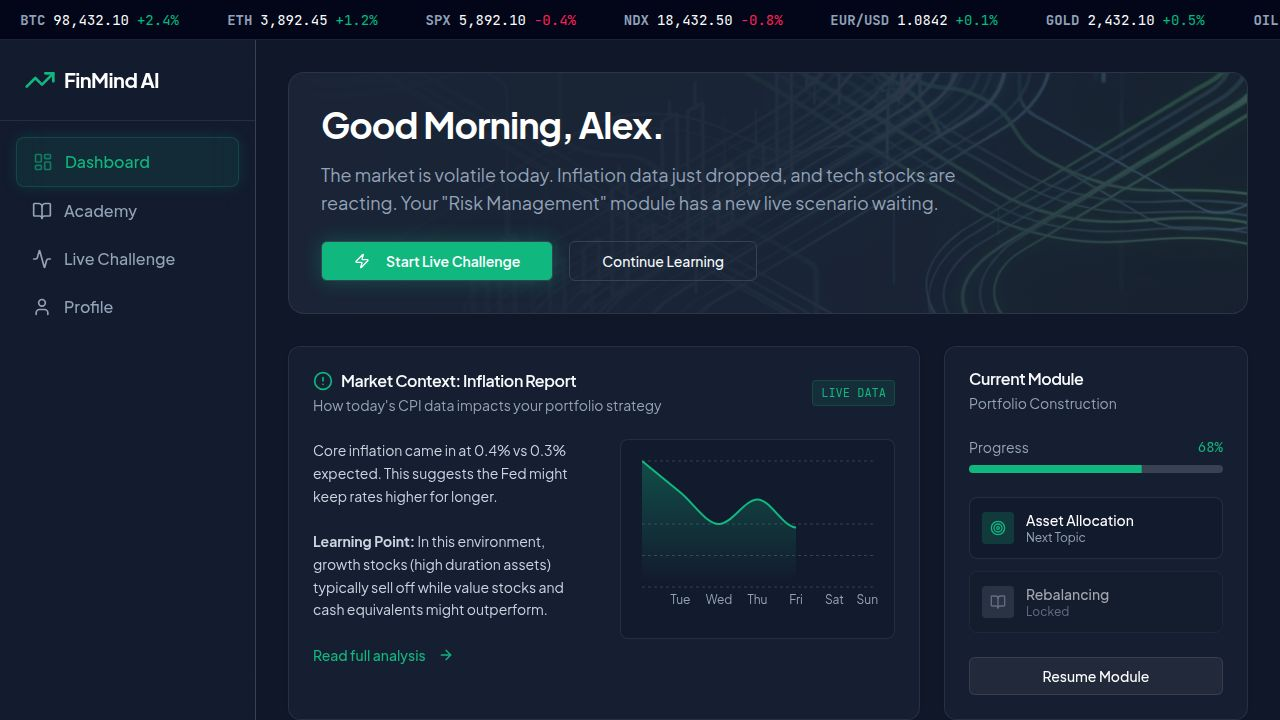
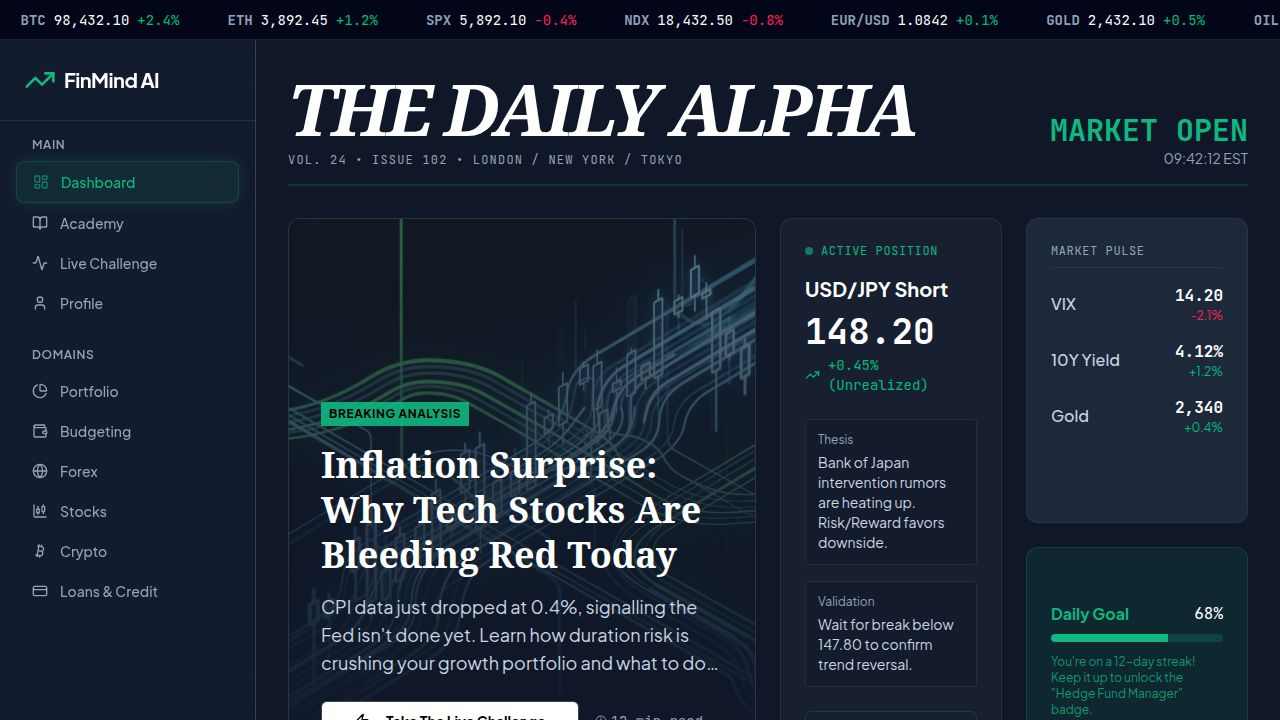
Revamp dashboard to resemble a newspaper with financial news
Update dashboard layout to a newspaper-style design with a prominent header, incorporating financial data and news, and importing new icons.

Replit-Commit-Author: Agent
Replit-Commit-Session-Id: ff85ec22-022c-4fd3-90fa-a4936b2031bb
Replit-Commit-Checkpoint-Type: full_checkpoint
Replit-Commit-Event-Id: 39064070-c70b-4fff-9420-42669af19fa1
Replit-Commit-Screenshot-Url: https://storage.googleapis.com/screenshot-production-us-central1/b6f839a9-772f-41d7-9e57-fa42cc94f4c2/ff85ec22-022c-4fd3-90fa-a4936b2031bb/fHsotQN
Replit-Helium-Checkpoint-Created: true

diff --git a/client/src/pages/dashboard.tsx b/client/src/pages/dashboard.tsx
@@ -1,185 +1,193 @@
 import Layout from "@/components/layout";
-import { Card, CardContent, CardHeader, CardTitle, CardDescription } from "@/components/ui/card";
+import { Card, CardContent, CardHeader, CardTitle, CardDescription, CardFooter } from "@/components/ui/card";
 import { Button } from "@/components/ui/button";
 import { Progress } from "@/components/ui/progress";
-import { ArrowRight, Zap, Target, BookOpen, AlertCircle, TrendingUp } from "lucide-react";
+import { ArrowRight, Zap, Target, BookOpen, AlertCircle, TrendingUp, TrendingDown, Clock, Newspaper, ChevronRight } from "lucide-react";
 import { AreaChart, Area, XAxis, YAxis, CartesianGrid, Tooltip, ResponsiveContainer } from 'recharts';
 import { Link } from "wouter";
 import generatedImage from '@assets/generated_images/abstract_digital_finance_visualization_with_glowing_data_streams.png';
 
 const MOCK_CHART_DATA = [
-  { name: 'Mon', value: 4000 },
-  { name: 'Tue', value: 3000 },
-  { name: 'Wed', value: 2000 },
-  { name: 'Thu', value: 2780 },
-  { name: 'Fri', value: 1890 },
-  { name: 'Sat', value: 2390 },
-  { name: 'Sun', value: 3490 },
+  { name: '09:00', value: 4000 },
+  { name: '10:00', value: 3000 },
+  { name: '11:00', value: 2000 },
+  { name: '12:00', value: 2780 },
+  { name: '13:00', value: 1890 },
+  { name: '14:00', value: 2390 },
+  { name: '15:00', value: 3490 },
 ];
 
 export default function Dashboard() {
   return (
     <Layout>
-      <div className="space-y-8 animate-in fade-in slide-in-from-bottom-4 duration-500">
+      <div className="space-y-6 animate-in fade-in slide-in-from-bottom-4 duration-500">
         
-        {/* Welcome Hero */}
-        <div className="relative overflow-hidden rounded-2xl border border-border/50 bg-card p-8">
-          <div className="absolute inset-0 z-0 opacity-20">
-            <img 
-              src={generatedImage} 
-              alt="Background" 
-              className="w-full h-full object-cover"
-            />
-            <div className="absolute inset-0 bg-gradient-to-r from-background via-background/80 to-transparent" />
-          </div>
-
-          <div className="relative z-10 max-w-2xl">
-            <h1 className="text-4xl font-bold tracking-tight text-white mb-4">
-              Good Morning, Alex.
-            </h1>
-            <p className="text-lg text-muted-foreground mb-6">
-              The market is volatile today. Inflation data just dropped, and tech stocks are reacting. 
-              Your "Risk Management" module has a new live scenario waiting.
+        {/* Newspaper Header / Date Line */}
+        <div className="flex flex-col md:flex-row justify-between items-end border-b-2 border-primary/20 pb-4 mb-8">
+          <div>
+            <h1 className="text-5xl md:text-7xl font-bold tracking-tighter text-white font-serif italic">THE DAILY ALPHA</h1>
+            <p className="text-muted-foreground mt-2 font-mono uppercase tracking-widest text-xs">
+              Vol. 24 • Issue 102 • London / New York / Tokyo
             </p>
-            <div className="flex gap-4">
-              <Link href="/challenge">
-                <Button size="lg" className="bg-primary hover:bg-primary/90 text-white font-semibold shadow-[0_0_20px_rgba(16,185,129,0.3)]">
-                  <Zap className="mr-2 h-4 w-4" /> Start Live Challenge
-                </Button>
-              </Link>
-              <Link href="/learn">
-                <Button size="lg" variant="outline" className="border-border hover:bg-white/5">
-                  Continue Learning
-                </Button>
-              </Link>
+          </div>
+          <div className="text-right mt-4 md:mt-0">
+            <div className="text-3xl font-bold text-primary font-mono">MARKET OPEN</div>
+            <div className="text-sm text-muted-foreground">09:42:12 EST</div>
+          </div>
+        </div>
+
+        {/* Bento Grid / Newspaper Layout */}
+        <div className="grid grid-cols-1 md:grid-cols-4 gap-6 auto-rows-min">
+          
+          {/* Main Headline (Hero) - Spans 2 cols, 2 rows */}
+          <div className="md:col-span-2 md:row-span-2 group relative overflow-hidden rounded-xl border border-border/50 bg-card hover:border-primary/50 transition-all cursor-pointer">
+            <div className="absolute inset-0 z-0">
+              <img 
+                src={generatedImage} 
+                alt="Background" 
+                className="w-full h-full object-cover opacity-40 group-hover:scale-105 transition-transform duration-700"
+              />
+              <div className="absolute inset-0 bg-gradient-to-t from-background via-background/60 to-transparent" />
+            </div>
+            <div className="relative z-10 p-8 h-full flex flex-col justify-end">
+              <div className="bg-primary/90 text-black text-xs font-bold px-2 py-1 inline-block w-fit mb-4 uppercase tracking-wider">
+                Breaking Analysis
+              </div>
+              <h2 className="text-3xl md:text-4xl font-bold text-white mb-4 leading-tight font-serif">
+                Inflation Surprise: Why Tech Stocks Are Bleeding Red Today
+              </h2>
+              <p className="text-lg text-slate-300 mb-6 line-clamp-3">
+                CPI data just dropped at 0.4%, signalling the Fed isn't done yet. Learn how duration risk is crushing your growth portfolio and what to do about it right now.
+              </p>
+              <div className="flex items-center gap-4">
+                <Link href="/challenge">
+                  <Button size="lg" className="bg-white text-black hover:bg-white/90 font-bold">
+                    <Zap className="mr-2 h-4 w-4" /> Take The Live Challenge
+                  </Button>
+                </Link>
+                <span className="text-sm text-slate-400 font-mono flex items-center gap-1">
+                  <Clock className="h-3 w-3" /> 12 min read
+                </span>
+              </div>
             </div>
           </div>
-        </div>
 
-        {/* Main Grid */}
-        <div className="grid grid-cols-1 md:grid-cols-3 gap-6">
-          
-          {/* Daily Insight */}
-          <Card className="col-span-1 md:col-span-2 border-border/50 bg-card/50 backdrop-blur-sm">
-            <CardHeader>
-              <div className="flex items-center justify-between">
-                <div className="space-y-1">
-                  <CardTitle className="flex items-center gap-2">
-                    <AlertCircle className="h-5 w-5 text-primary" />
-                    Market Context: Inflation Report
-                  </CardTitle>
-                  <CardDescription>How today's CPI data impacts your portfolio strategy</CardDescription>
-                </div>
-                <span className="text-xs font-mono px-2 py-1 rounded bg-primary/10 text-primary border border-primary/20">LIVE DATA</span>
+          {/* Top Story 2 - Pending Challenge */}
+          <div className="md:col-span-1 md:row-span-2 bg-secondary/20 border border-border/50 rounded-xl p-6 flex flex-col">
+            <div className="flex items-center gap-2 text-primary mb-4">
+              <div className="h-2 w-2 rounded-full bg-primary animate-pulse" />
+              <span className="font-mono text-xs uppercase tracking-wider">Active Position</span>
+            </div>
+            <h3 className="text-xl font-bold text-white mb-2">USD/JPY Short</h3>
+            <div className="text-4xl font-mono font-bold text-white mb-1">148.20</div>
+            <div className="flex items-center gap-2 text-emerald-500 mb-6 font-mono text-sm">
+              <TrendingUp className="h-4 w-4" /> +0.45% (Unrealized)
+            </div>
+            
+            <div className="flex-1 space-y-4">
+              <div className="p-3 bg-background/50 rounded border border-border/50">
+                <p className="text-xs text-muted-foreground mb-1">Thesis</p>
+                <p className="text-sm text-slate-300">Bank of Japan intervention rumors are heating up. Risk/Reward favors downside.</p>
               </div>
-            </CardHeader>
-            <CardContent>
-              <div className="grid md:grid-cols-2 gap-8">
-                <div className="space-y-4">
-                  <p className="text-sm text-slate-300 leading-relaxed">
-                    Core inflation came in at 0.4% vs 0.3% expected. This suggests the Fed might keep rates higher for longer. 
-                    <br/><br/>
-                    <strong>Learning Point:</strong> In this environment, growth stocks (high duration assets) typically sell off while value stocks and cash equivalents might outperform.
-                  </p>
-                  <Button variant="link" className="text-primary p-0 h-auto">Read full analysis <ArrowRight className="ml-1 h-3 w-3" /></Button>
-                </div>
-                <div className="h-[200px] w-full rounded-lg border border-border/50 bg-background/50 p-4">
-                  <ResponsiveContainer width="100%" height="100%">
-                    <AreaChart data={MOCK_CHART_DATA}>
-                      <defs>
-                        <linearGradient id="colorValue" x1="0" y1="0" x2="0" y2="1">
-                          <stop offset="5%" stopColor="#10b981" stopOpacity={0.3}/>
-                          <stop offset="95%" stopColor="#10b981" stopOpacity={0}/>
-                        </linearGradient>
-                      </defs>
-                      <CartesianGrid strokeDasharray="3 3" stroke="#334155" vertical={false} />
-                      <XAxis dataKey="name" stroke="#94a3b8" fontSize={12} tickLine={false} axisLine={false} />
-                      <Tooltip 
-                        contentStyle={{ backgroundColor: '#0f172a', border: '1px solid #1e293b' }}
-                        itemStyle={{ color: '#fff' }}
-                      />
-                      <Area type="monotone" dataKey="value" stroke="#10b981" fillOpacity={1} fill="url(#colorValue)" strokeWidth={2} />
-                    </AreaChart>
-                  </ResponsiveContainer>
-                </div>
+              <div className="p-3 bg-background/50 rounded border border-border/50">
+                <p className="text-xs text-muted-foreground mb-1">Validation</p>
+                <p className="text-sm text-slate-300">Wait for break below 147.80 to confirm trend reversal.</p>
               </div>
-            </CardContent>
-          </Card>
-
-          {/* Progress Card */}
-          <Card className="border-border/50 bg-card/50 backdrop-blur-sm flex flex-col justify-between">
-            <CardHeader>
-              <CardTitle>Current Module</CardTitle>
-              <CardDescription>Portfolio Construction</CardDescription>
-            </CardHeader>
-            <CardContent className="space-y-6">
-              <div className="space-y-2">
-                <div className="flex justify-between text-sm">
-                  <span className="text-muted-foreground">Progress</span>
-                  <span className="font-mono text-primary">68%</span>
-                </div>
-                <Progress value={68} className="h-2 bg-secondary" />
-              </div>
-              
-              <div className="space-y-3">
-                <div className="p-3 rounded-lg bg-background/50 border border-border/50 flex items-center gap-3">
-                  <div className="h-8 w-8 rounded bg-primary/20 flex items-center justify-center text-primary">
-                    <Target className="h-4 w-4" />
-                  </div>
-                  <div className="flex-1">
-                    <p className="text-sm font-medium text-white">Asset Allocation</p>
-                    <p className="text-xs text-muted-foreground">Next Topic</p>
-                  </div>
-                </div>
-                
-                <div className="p-3 rounded-lg bg-background/50 border border-border/50 flex items-center gap-3 opacity-60">
-                  <div className="h-8 w-8 rounded bg-secondary flex items-center justify-center text-muted-foreground">
-                    <BookOpen className="h-4 w-4" />
-                  </div>
-                  <div className="flex-1">
-                    <p className="text-sm font-medium text-white">Rebalancing</p>
-                    <p className="text-xs text-muted-foreground">Locked</p>
-                  </div>
-                </div>
-              </div>
-
-              <Button className="w-full bg-white/5 hover:bg-white/10 text-white border border-white/10">
-                Resume Module
-              </Button>
-            </CardContent>
-          </Card>
-        </div>
-
-        {/* Recommended Paths */}
-        <div>
-          <h2 className="text-xl font-bold text-white mb-4 flex items-center gap-2">
-            <TrendingUp className="h-5 w-5 text-primary" />
-            Recommended For You
-          </h2>
-          <div className="grid grid-cols-1 md:grid-cols-3 gap-6">
-            {[
-              { title: "Derivatives 101", level: "Intermediate", duration: "2h 30m", color: "from-blue-500/20 to-purple-500/20" },
-              { title: "Forex Trading Strategies", level: "Advanced", duration: "4h 15m", color: "from-emerald-500/20 to-teal-500/20" },
-              { title: "Crypto Risk Management", level: "Beginner", duration: "1h 45m", color: "from-orange-500/20 to-red-500/20" }
-            ].map((course, i) => (
-              <div key={i} className={`group relative p-6 rounded-xl border border-border/50 bg-gradient-to-br ${course.color} hover:border-primary/50 transition-all cursor-pointer overflow-hidden`}>
-                <div className="absolute inset-0 bg-background/90 z-0 transition-opacity group-hover:opacity-80" />
-                <div className="relative z-10">
-                  <div className="flex justify-between items-start mb-4">
-                    <span className="text-xs font-mono px-2 py-1 rounded bg-white/10 text-white border border-white/10">
-                      {course.level}
-                    </span>
-                    <span className="text-xs text-muted-foreground">{course.duration}</span>
-                  </div>
-                  <h3 className="text-lg font-bold text-white mb-2">{course.title}</h3>
-                  <p className="text-sm text-muted-foreground mb-4">Master the fundamentals and apply them in live simulations.</p>
-                  <div className="flex items-center text-primary text-sm font-medium group-hover:translate-x-1 transition-transform">
-                    Start Learning <ArrowRight className="ml-1 h-3 w-3" />
-                  </div>
-                </div>
-              </div>
-            ))}
+            </div>
+            
+            <Button variant="outline" className="w-full mt-6 border-primary/20 hover:bg-primary/10 hover:text-primary">
+              Manage Position
+            </Button>
           </div>
+
+          {/* Market Ticker / Quick Stats */}
+          <div className="md:col-span-1 md:row-span-1 bg-card border border-border/50 rounded-xl p-6">
+            <h4 className="font-mono text-xs text-muted-foreground uppercase tracking-wider mb-4 border-b border-border/50 pb-2">Market Pulse</h4>
+            <div className="space-y-4">
+              {[
+                { label: "VIX", value: "14.20", change: "-2.1%", up: false },
+                { label: "10Y Yield", value: "4.12%", change: "+1.2%", up: true },
+                { label: "Gold", value: "2,340", change: "+0.4%", up: true },
+              ].map((stat, i) => (
+                <div key={i} className="flex justify-between items-center">
+                  <span className="font-medium text-slate-300">{stat.label}</span>
+                  <div className="text-right">
+                    <div className="text-white font-mono font-bold">{stat.value}</div>
+                    <div className={`text-xs ${stat.up ? 'text-emerald-500' : 'text-rose-500'}`}>{stat.change}</div>
+                  </div>
+                </div>
+              ))}
+            </div>
+          </div>
+
+           {/* Learning Progress - Mini */}
+           <div className="md:col-span-1 md:row-span-1 bg-primary/10 border border-primary/20 rounded-xl p-6 flex flex-col justify-center">
+             <div className="flex justify-between items-center mb-2">
+               <span className="font-bold text-primary">Daily Goal</span>
+               <span className="font-mono text-white">68%</span>
+             </div>
+             <Progress value={68} className="h-2 bg-primary/20" />
+             <p className="text-xs text-primary/80 mt-3">
+               You're on a 12-day streak! Keep it up to unlock the "Hedge Fund Manager" badge.
+             </p>
+           </div>
+
+          {/* Chart Section - Spans 2 cols */}
+          <div className="md:col-span-2 bg-card/50 border border-border/50 rounded-xl p-6">
+            <div className="flex justify-between items-center mb-6">
+               <h3 className="font-bold text-white flex items-center gap-2">
+                 <Newspaper className="h-4 w-4 text-muted-foreground" />
+                 Sector Performance
+               </h3>
+               <select className="bg-background border border-border rounded text-xs px-2 py-1 text-muted-foreground">
+                 <option>Intraday</option>
+                 <option>1 Week</option>
+               </select>
+            </div>
+            <div className="h-[200px] w-full">
+              <ResponsiveContainer width="100%" height="100%">
+                <AreaChart data={MOCK_CHART_DATA}>
+                  <defs>
+                    <linearGradient id="colorValue2" x1="0" y1="0" x2="0" y2="1">
+                      <stop offset="5%" stopColor="#3b82f6" stopOpacity={0.3}/>
+                      <stop offset="95%" stopColor="#3b82f6" stopOpacity={0}/>
+                    </linearGradient>
+                  </defs>
+                  <CartesianGrid strokeDasharray="3 3" stroke="#1e293b" vertical={false} />
+                  <XAxis dataKey="name" stroke="#64748b" fontSize={10} tickLine={false} axisLine={false} />
+                  <Tooltip 
+                    contentStyle={{ backgroundColor: '#0f172a', border: '1px solid #1e293b' }}
+                    itemStyle={{ color: '#fff' }}
+                  />
+                  <Area type="monotone" dataKey="value" stroke="#3b82f6" fillOpacity={1} fill="url(#colorValue2)" strokeWidth={2} />
+                </AreaChart>
+              </ResponsiveContainer>
+            </div>
+          </div>
+
+          {/* "Opinion" / Editorial Column */}
+          <div className="md:col-span-2 border-t-4 border-white/10 bg-card rounded-xl p-6">
+            <h3 className="font-serif italic text-2xl text-white mb-6">Editors' Picks</h3>
+            <div className="grid grid-cols-1 md:grid-cols-2 gap-8">
+              <div className="space-y-3 group cursor-pointer">
+                <div className="aspect-video bg-muted rounded-lg overflow-hidden relative">
+                   <div className="absolute inset-0 bg-gradient-to-tr from-purple-900/40 to-blue-900/40" />
+                   <div className="absolute bottom-2 left-2 bg-black/60 px-2 py-1 rounded text-xs text-white font-mono">CRYPTO</div>
+                </div>
+                <h4 className="font-bold text-white group-hover:text-primary transition-colors">Is Bitcoin the new Digital Gold?</h4>
+                <p className="text-sm text-muted-foreground line-clamp-2">Exploring the correlation between BTC and commodities in the 2024 cycle.</p>
+              </div>
+              <div className="space-y-3 group cursor-pointer">
+                 <div className="aspect-video bg-muted rounded-lg overflow-hidden relative">
+                   <div className="absolute inset-0 bg-gradient-to-tr from-emerald-900/40 to-teal-900/40" />
+                   <div className="absolute bottom-2 left-2 bg-black/60 px-2 py-1 rounded text-xs text-white font-mono">FOREX</div>
+                 </div>
+                <h4 className="font-bold text-white group-hover:text-primary transition-colors">The Carry Trade Unwind</h4>
+                <p className="text-sm text-muted-foreground line-clamp-2">What happens when the Yen strengthens? A deep dive into global liquidity.</p>
+              </div>
+            </div>
+          </div>
+          
         </div>
       </div>
     </Layout>
